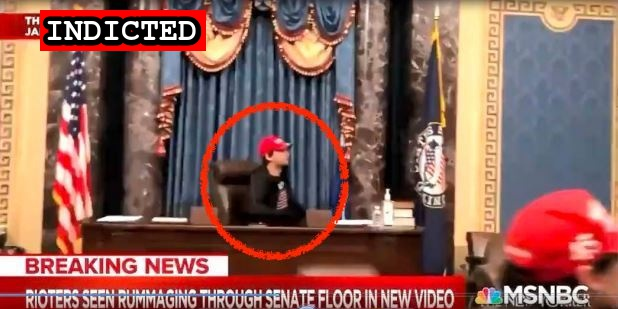
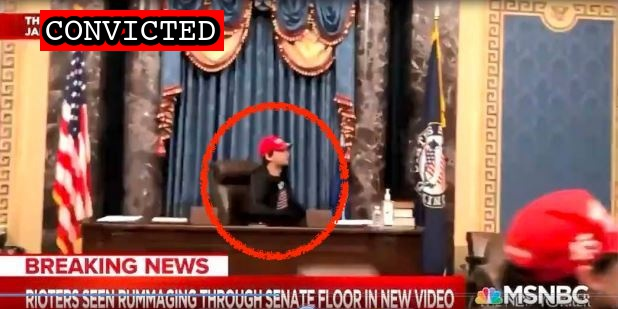
Latest import

Changed region(s): [[0.0615, 0.0291, 0.3689, 0.1748]]

diff --git a/docs/_suspects/landon-copeland.md b/docs/_suspects/landon-copeland.md
@@ -4,15 +4,17 @@ lastName: Copeland
 hashtag: RedPoloRising
 aka:
 residence: Utah
-status: Indicted
+status: Convicted
 date: 2021-04-29
 charged: 2021-04-29
 indicted: 2021-09-10
-convicted:
+convicted: 2022-05-19
+acquitted:
 sentenced:
 dismissed:
 deceased:
-plea_hearing:
+plea_hearing: 2022-05-19
+trial_date:
 sentencing:
 age: 33
 occupation:
@@ -31,16 +33,23 @@ description: Click for latest case details. Suspects innocent until proven guilt
 author: seditiontrack
 layout: suspect
 published: true
-caseNumber:
+caseNumber: 1:21-cr-570
 videos:
 charges:
+  - code: 18 USC § 111(a)(1)
+    title: Assaulting, resisting, or impeding certain officers or employees
+    url: https://www.law.cornell.edu/uscode/text/18/111
+    felony: true
 sentence:
 ---
+
 - [News Report](https://www.ksl.com/article/50156952/southern-utah-man-charged-with-attacking-officers-during-us-capitol-riot)
 - [Complaint](https://www.justice.gov/usao-dc/case-multi-defendant/file/1390646/download)
 - [Statement of Facts](https://www.justice.gov/usao-dc/case-multi-defendant/file/1390651/download)
 - [DOJ Press Release](https://www.justice.gov/usao-dc/pr/utah-man-arrested-assaulting-law-enforcement-during-jan-6-capitol-breach)
 - [Detention Memo](https://extremism.gwu.edu/sites/g/files/zaxdzs2191/f/Landon%20Copeland%20Government%20Memorandum%20in%20Support%20of%20Pretrial%20Detention.pdf)
-- [Indictment](https://extremism.gwu.edu/sites/g/files/zaxdzs2191/f/Landon%20Copeland%20Indictment.pdf)
+- [Indictment](https://www.justice.gov/usao-dc/case-multi-defendant/file/1507246/download)
 - [Detention Order](https://extremism.gwu.edu/sites/g/files/zaxdzs2191/f/Landon%20Copeland%20Detention%20Order.pdf)
 - [Sentencing Memo](https://extremism.gwu.edu/sites/g/files/zaxdzs2191/f/Landon%20Copeland%20Government%20Memorandum%20in%20Support%20of%20Pretrial%20Detention.pdf)
+- [Plea Agreement](https://www.justice.gov/usao-dc/case-multi-defendant/file/1507251/download)
+- [Statement of Offense](https://www.justice.gov/usao-dc/case-multi-defendant/file/1507256/download)

diff --git a/docs/_suspects/christian-secor.md b/docs/_suspects/christian-secor.md
@@ -4,16 +4,18 @@ lastName: Secor
 hashtag: ChristianSecor
 aka:
 residence: California
-status: Indicted
+status: Convicted
 date: 2021-02-16
 charged: 2021-02-16
 indicted: 2021-02-26
-convicted: 
-sentenced: 
-dismissed: 
+convicted: 2022-05-19
+acquitted:
+sentenced:
+dismissed:
 deceased:
 plea_hearing:
-sentencing:
+trial_date:
+sentencing: 2022-10-07
 age: 22
 occupation: Student, UCLA
 affiliations:
@@ -34,10 +36,17 @@ published: true
 caseNumber: 1:21-cr-157
 videos:
 charges:
+  - code: 18 USC § 1512(c)(2)
+    title: Obstruction of an Official Proceeding
+    url: https://www.law.cornell.edu/uscode/text/18/1512
+    felony: true
 sentence:
 ---
+
 - [News Report](https://losangeles.cbslocal.com/2021/02/17/fbi-arrests-costa-mesa-man-christian-secor-charged-in-us-capitol-riot/)
 - [Statement of Facts](https://extremism.gwu.edu/sites/g/files/zaxdzs2191/f/Christian%20Secor%20Affidavit%20in%20Support%20of%20Criminal%20Complaint%20and%20Arrest%20Warrant.pdf)
 - [Indictment](https://www.justice.gov/usao-dc/case-multi-defendant/file/1460111/download)
 - [Government Opposition to Release](https://extremism.gwu.edu/sites/g/files/zaxdzs2191/f/Christian%20Secor%20Govt%20Opposition%20to%20Motion%20for%20Review%20of%20Bond%20Decision.pdf)
 - [Government's Opposition to Modifying Conditions of Release](https://extremism.gwu.edu/sites/g/files/zaxdzs2191/f/Christian%20Secor%20Govt%20Opposition%20to%20Motion%20for%20Review%20of%20Bond%20Decision.pdf)
+- [Plea Agreement](https://www.justice.gov/usao-dc/case-multi-defendant/file/1507211/download)
+- [Statement of Offense](https://www.justice.gov/usao-dc/case-multi-defendant/file/1507216/download)

diff --git a/docs/_suspects/cara-hentschel.md b/docs/_suspects/cara-hentschel.md
@@ -36,13 +36,14 @@ published: true
 caseNumber: 1:21-cr-667
 videos:
 charges:
-  - code: 40 USC § 5104(e)(2)(G)
-    title: Parading, demonstrating or picketing in a Capitol building
-    url: https://www.law.cornell.edu/uscode/text/40/5104
-    felony: false
+- code: 40 USC § 5104(e)(2)(G)
+  title: Parading, demonstrating or picketing in a Capitol building
+  url: https://www.law.cornell.edu/uscode/text/40/5104
+  felony: false
 sentence:
 ---
-
 - [News Report](https://www.msn.com/en-us/news/us/two-women-arrested-monday-in-springfield-charged-in-jan-6-us-capitol-breach/ar-AAPddMo)
 - [Statement of Facts](https://www.justice.gov/usao-dc/case-multi-defendant/file/1457716/download)
 - [Information](https://www.justice.gov/usao-dc/case-multi-defendant/file/1457711/download)
+- [Plea Agreement](https://www.justice.gov/usao-dc/case-multi-defendant/file/1507011/download)
+- [Statement of Offense](https://www.justice.gov/usao-dc/case-multi-defendant/file/1507016/download)

diff --git a/docs/_suspects/mahailya-pryer.md b/docs/_suspects/mahailya-pryer.md
@@ -36,13 +36,14 @@ published: true
 caseNumber: 1:21-cr-667
 videos:
 charges:
-  - code: 40 USC § 5104(e)(2)(G)
-    title: Parading, demonstrating or picketing in a Capitol building
-    url: https://www.law.cornell.edu/uscode/text/40/5104
-    felony: false
+- code: 40 USC § 5104(e)(2)(G)
+  title: Parading, demonstrating or picketing in a Capitol building
+  url: https://www.law.cornell.edu/uscode/text/40/5104
+  felony: false
 sentence:
 ---
-
 - [News Report](https://www.msn.com/en-us/news/us/two-women-arrested-monday-in-springfield-charged-in-jan-6-us-capitol-breach/ar-AAPddMo)
 - [Statement of Facts](https://www.justice.gov/usao-dc/case-multi-defendant/file/1457716/download)
 - [Information](https://www.justice.gov/usao-dc/case-multi-defendant/file/1457711/download)
+- [Plea Agreement](https://www.justice.gov/usao-dc/case-multi-defendant/file/1507001/download)
+- [Statement of Offense](https://www.justice.gov/usao-dc/case-multi-defendant/file/1507006/download)

diff --git a/docs/_suspects/greg-rubenacker.md b/docs/_suspects/greg-rubenacker.md
@@ -13,7 +13,7 @@ sentenced:
 dismissed:
 deceased:
 plea_hearing: 2022-02-11
-sentencing: 2022-05-20
+sentencing: 2022-05-26
 age: 25
 occupation: DJ
 affiliations:
